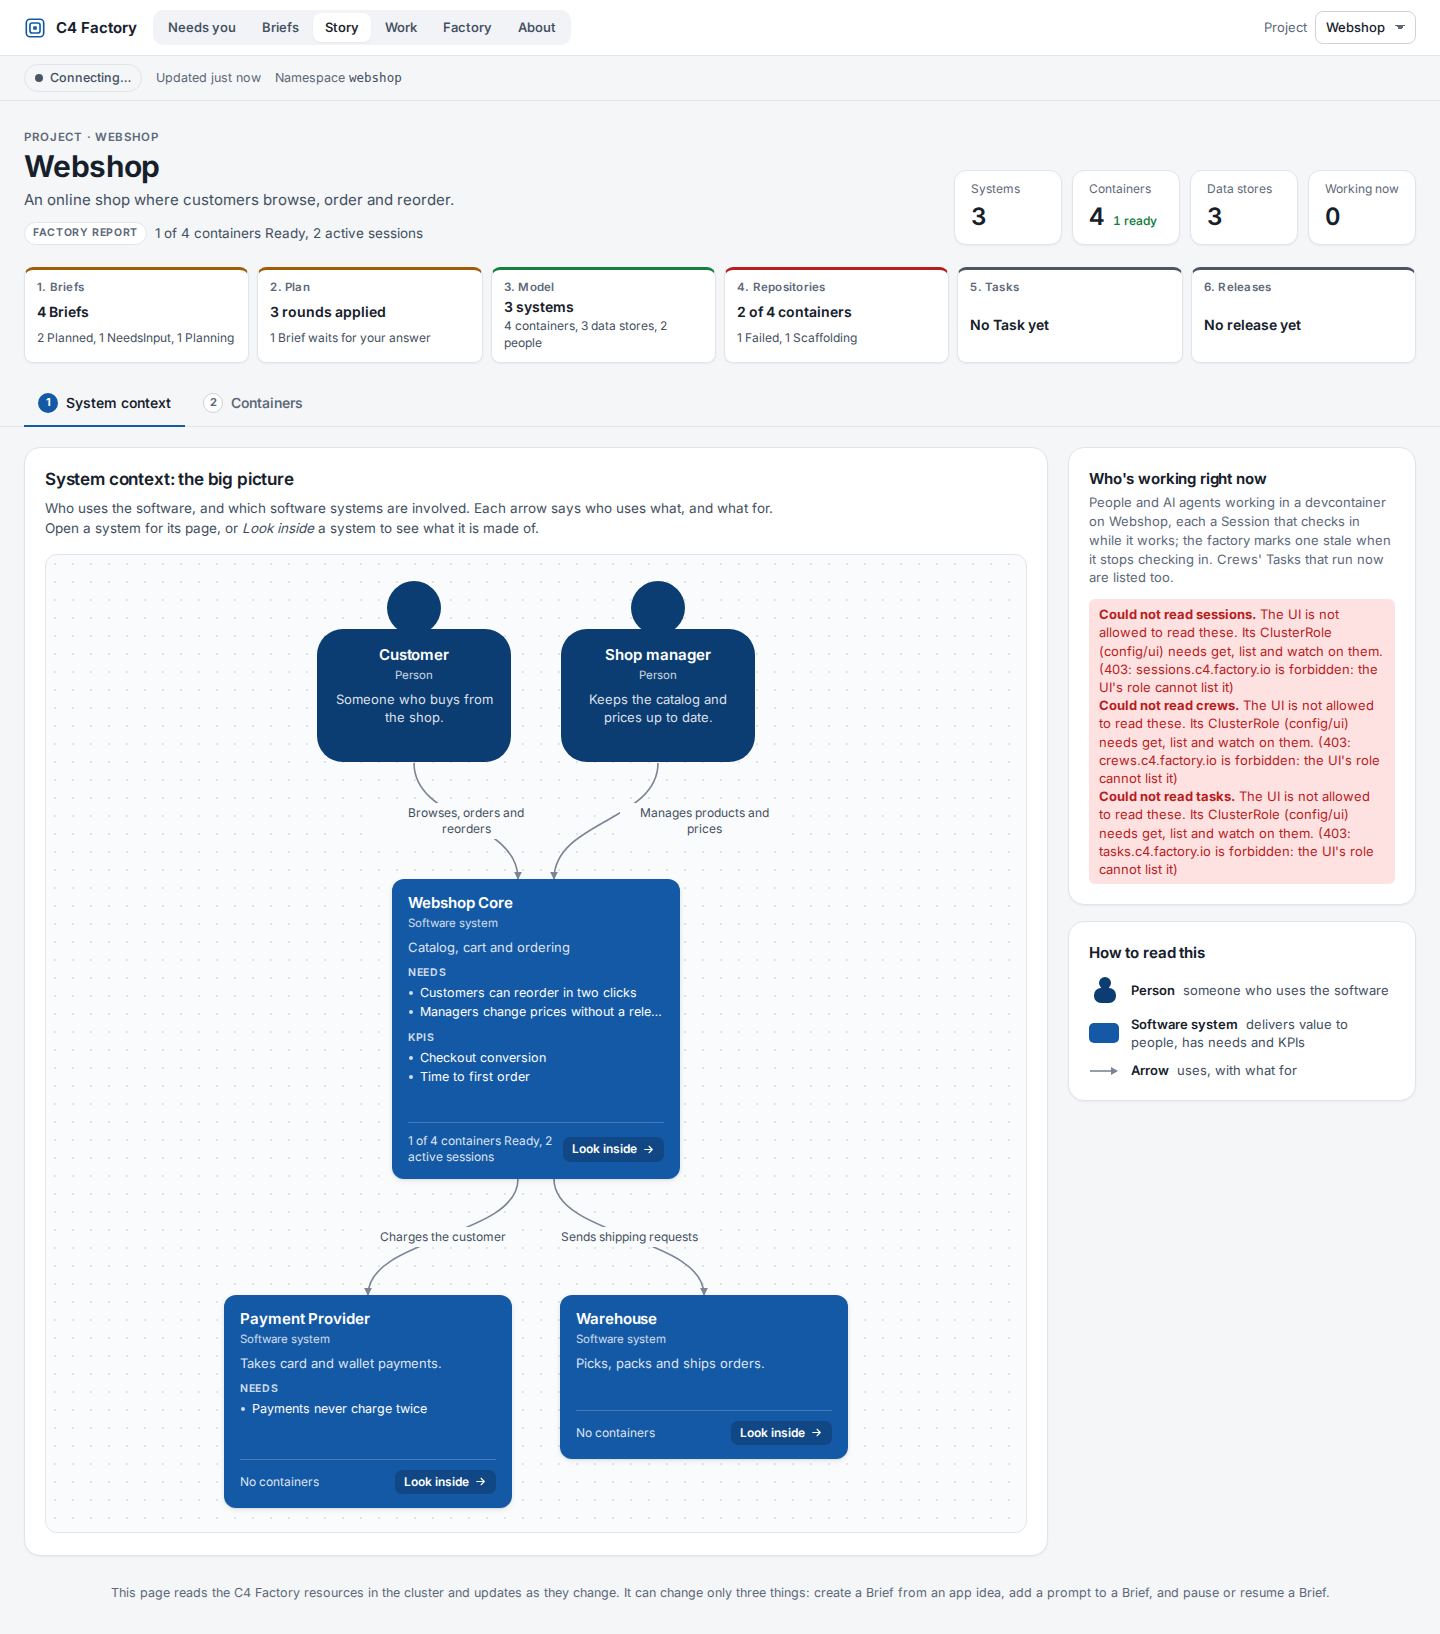
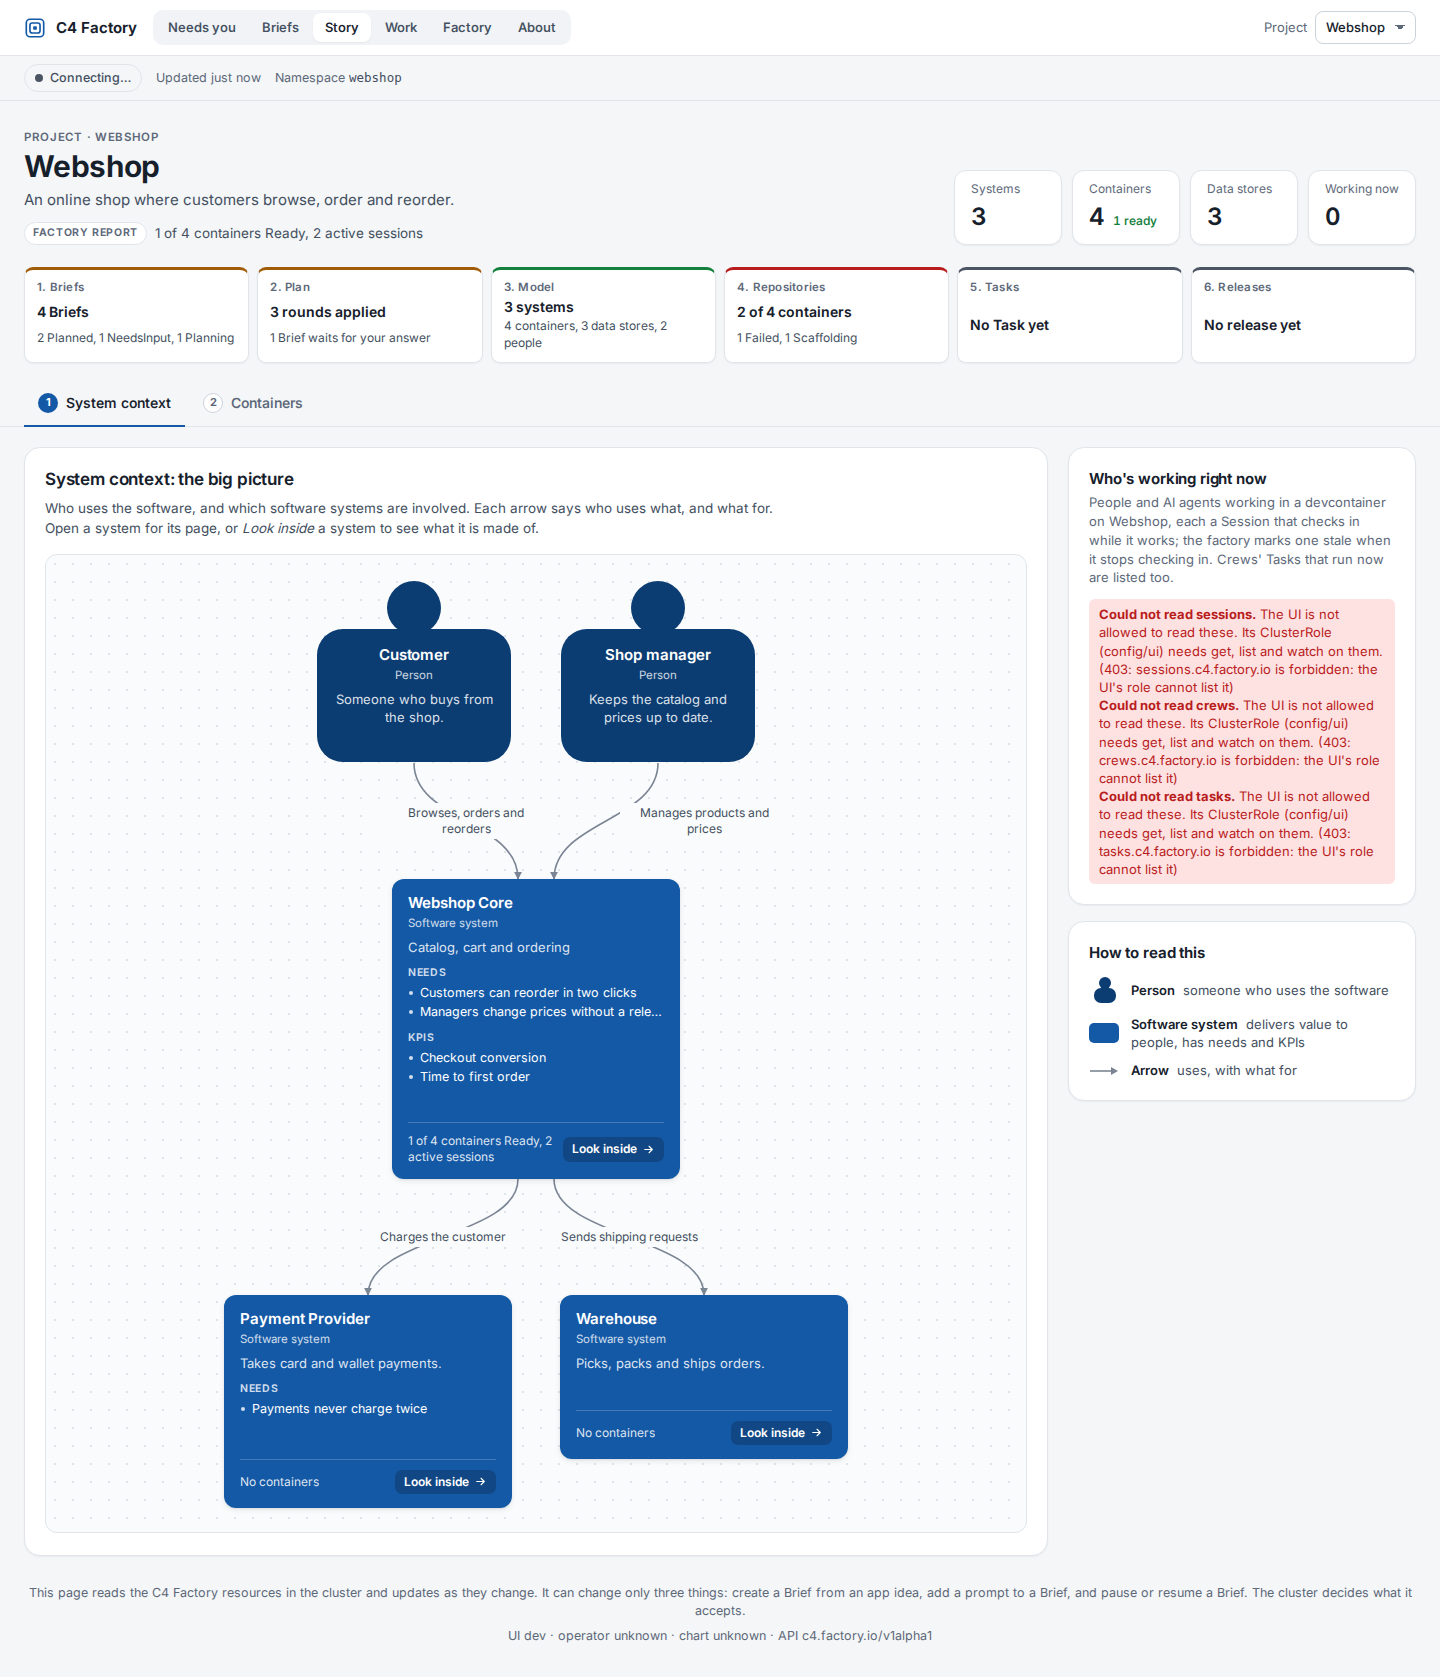
docs(ui): the shell in ui/README.md and design.md; screenshots of what ships
design.md gains "The UI: areas and object pages": the six areas, object
pages, Needs you, versions and the URL scheme with the old links. The
README, getting-started and the links in doctor.sh and factory-ops point
at the areas. Screenshots retaken from the e2e run; the old layout's go.
The footer names the writes as the actions setting has them. The plan
is done and moves to docs/plans/done/.

Agent: otter-717

diff --git a/ui/src/components/Shell.tsx b/ui/src/components/Shell.tsx
@@ -1,4 +1,4 @@
-// The page's shell (docs/plans/ui-lifecycle.md, decisions 1 and 2): navigation
+// The page's shell (docs/plans/done/ui-lifecycle.md, decisions 1 and 2): navigation
 // for the six areas, a freshness line, the area on screen or an object's page,
 // and a footer with the versions running.
 
@@ -6,7 +6,7 @@ import type { MouseEvent, ReactNode } from 'react'
 import type { FactoryHealth } from '../k8s/health'
 import { problemsOf, readOf, type Connection, type FactoryData, type Problem } from '../k8s/sources'
 import { RESOURCES } from '../k8s/types'
-import { hrefFor, useNow, type UrlState } from '../lib/hooks'
+import { hrefFor, useActs, useNow, type UrlState } from '../lib/hooks'
 import { AREAS, inNamespace, type Area } from '../model/areas'
 import { absoluteTime, formatDuration } from '../model/format'
 import { aboutLinks, type Versions } from '../model/versions'
@@ -54,6 +54,7 @@ export function Shell({
   areas,
   objectPage,
 }: ShellProps) {
+  const acts = useActs()
   const object = url.kind && url.name ? { ns: url.ns, kind: url.kind, name: url.name } : undefined
   const scope = object ? object.ns : inNamespace(area) ? namespace : area === 'about' ? undefined : ''
   return (
@@ -100,8 +101,11 @@ export function Shell({
       )}
 
       <footer className="footer">
-        This page reads the C4 Factory resources in the cluster and updates as they change. It can change only three
-        things: create a Brief from an app idea, add a prompt to a Brief, and pause or resume a Brief.
+        This page reads the C4 Factory resources in the cluster and updates as they change.{' '}
+        {acts === 'none'
+          ? 'It can change only three things: create a Brief from an app idea, add a prompt to a Brief, and pause or resume a Brief.'
+          : "With actions on, it also changes Brief and Crew settings, retries a Container, reruns a release, starts a Task and moves a Standard's template ref."}{' '}
+        The cluster decides what it accepts.
         <VersionLine versions={versions} />
       </footer>
     </div>

diff --git a/ui/src/components/factory.css b/ui/src/components/factory.css
@@ -1,4 +1,4 @@
-/* The factory view: Factory.tsx and the panels in components/factory/, but
+/* The Work and Factory areas: Factory.tsx and the panels in components/factory/, but
    the health panel, which has health.css. */
 
 /* Each stage of a Task has a tone: the board, timelines and legends share them. */
@@ -38,14 +38,6 @@
   height: 9px;
   border-radius: 3px;
   background: var(--stage, var(--unknown));
-}
-
-.stat-sub-waiting {
-  color: var(--waiting);
-}
-
-.stat-sub-muted {
-  color: var(--text-3);
 }
 
 .factory-main {
@@ -216,12 +208,6 @@
   overflow-wrap: anywhere;
 }
 
-.follow-ups {
-  display: inline-flex;
-  flex-wrap: wrap;
-  gap: 4px 10px;
-}
-
 .task-card-meta {
   display: flex;
   flex-wrap: wrap;
@@ -363,21 +349,6 @@
   line-height: 1.5;
   white-space: pre-wrap;
   overflow-wrap: anywhere;
-}
-
-.timeline {
-  display: grid;
-  gap: 0;
-  margin: 12px 0 0;
-  padding: 0;
-  list-style: none;
-}
-
-.timeline-at {
-  display: block;
-  margin-top: 1px;
-  font-size: 11.5px;
-  color: var(--text-3);
 }
 
 .slot-list {

diff --git a/ui/src/model/factory.ts b/ui/src/model/factory.ts
@@ -1,6 +1,6 @@
-// The factory view's model of Tasks: their stages and timelines, the board, the
+// The Work area's model of Tasks: their stages and timelines, the board, the
 // agent slots and the stats. Plain functions over resources, so they are tested
-// without React; attention.ts, crews.ts and format.ts hold the rest of the view's model.
+// without React; attention.ts, crews.ts and format.ts hold the rest of the area's model.
 
 import type { Agent, Task, TaskPhase, TaskTransition } from '../k8s/types'
 import { findCondition } from '../k8s/types'

diff --git a/ui/src/App.test.ts b/ui/src/App.test.ts
@@ -2,7 +2,7 @@ import { describe, expect, it } from 'vitest'
 import source from './App.tsx?raw'
 import demoSource from './lib/demo.ts?raw'
 
-// Decision 10 of docs/plans/ui-lifecycle.md: no timer re-renders the tree. A
+// Decision 10 of docs/plans/done/ui-lifecycle.md: no timer re-renders the tree. A
 // running clock lives in the components that show one (useNow), so App, which
 // holds every view, re-renders only when the URL or the data changes.
 describe('App', () => {

diff --git a/ui/src/model/lifecycle.ts b/ui/src/model/lifecycle.ts
@@ -1,4 +1,4 @@
-// Each kind's lifecycle (docs/plans/ui-lifecycle.md, decision 3; #705's table,
+// Each kind's lifecycle (docs/plans/done/ui-lifecycle.md, decision 3; #705's table,
 // "Lifecycle of each level"): the phases on its path, the side exits off it,
 // what moves it along, and what a person does at each step. Object pages read
 // it from here, so no page invents its own. Pure, and read only from status.

diff --git a/ui/src/components/Briefs.tsx b/ui/src/components/Briefs.tsx
@@ -1,6 +1,6 @@
 // The Briefs of a project: a box to describe a new app, and a card per Brief
 // with what the planner made of it, a field to steer it with a prompt and a
-// button to pause or resume it. These are the UI's only three writes; the CRD
+// button to pause or resume it. These are the UI's three writes when actions are off; the CRD
 // decides what is accepted.
 
 import { useState } from 'react'

diff --git a/ui/src/model/needs.ts b/ui/src/model/needs.ts
@@ -1,4 +1,4 @@
-// What waits on a person, across projects (docs/plans/ui-lifecycle.md,
+// What waits on a person, across projects (docs/plans/done/ui-lifecycle.md,
 // decision 5): a plain function over the data the Factory source reads. Every
 // item comes from status, never from timing, and says why in the condition's
 // own words and where it is done: a place in the UI, a link out, a kubectl line.

diff --git a/ui/src/components/ObjectHeader.tsx b/ui/src/components/ObjectHeader.tsx
@@ -1,4 +1,4 @@
-// The header every object page opens with (docs/plans/ui-lifecycle.md,
+// The header every object page opens with (docs/plans/done/ui-lifecycle.md,
 // decisions 3 and 4): what it is and what it belongs to, where it is on its
 // lifecycle, what a person does now (an action the UI takes, or the exact next
 // step: a link or a kubectl line to copy), then its conditions, its timeline,

diff --git a/ui/src/k8s/health.ts b/ui/src/k8s/health.ts
@@ -1,5 +1,5 @@
 // The factory's health, from GET /factory/health (server.mjs and health.mjs).
-// Polled while someone looks at the factory view; the server caches it for a
+// Polled while someone looks at the Work or Factory area; the server caches it for a
 // few seconds, so several open pages cost the cluster no more than one.
 
 import type { Snapshot, Source } from './sources'

diff --git a/ui/src/demo/factoryFixture.ts b/ui/src/demo/factoryFixture.ts
@@ -1,4 +1,4 @@
-// The factory view's demo: the webshop's Tasks in every stage, one that ran
+// The Work area's demo: the webshop's Tasks in every stage, one that ran
 // before timelines, a component that just restarted, and an agent slot in use
 // with another Task waiting for it; the story adds the Crews and their issue
 // Tasks. Times are relative to `now`.

diff --git a/ui/src/components/PanelState.tsx b/ui/src/components/PanelState.tsx
@@ -1,4 +1,4 @@
-// A panel's own loading, empty and error states (docs/plans/ui-lifecycle.md,
+// A panel's own loading, empty and error states (docs/plans/done/ui-lifecycle.md,
 // step 10): a read that failed is said in the panel that shows its kind, never
 // only in one banner for the page, and what was read before it failed still
 // shows under it.

diff --git a/ui/src/model/storyline.ts b/ui/src/model/storyline.ts
@@ -1,4 +1,4 @@
-// A project's story in one line (docs/plans/ui-lifecycle.md, step 9): from its
+// A project's story in one line (docs/plans/done/ui-lifecycle.md, step 9): from its
 // Briefs to the plan, the model, the repositories, the Tasks and the releases,
 // each step counted from `status` and pointing at where its objects are.
 
